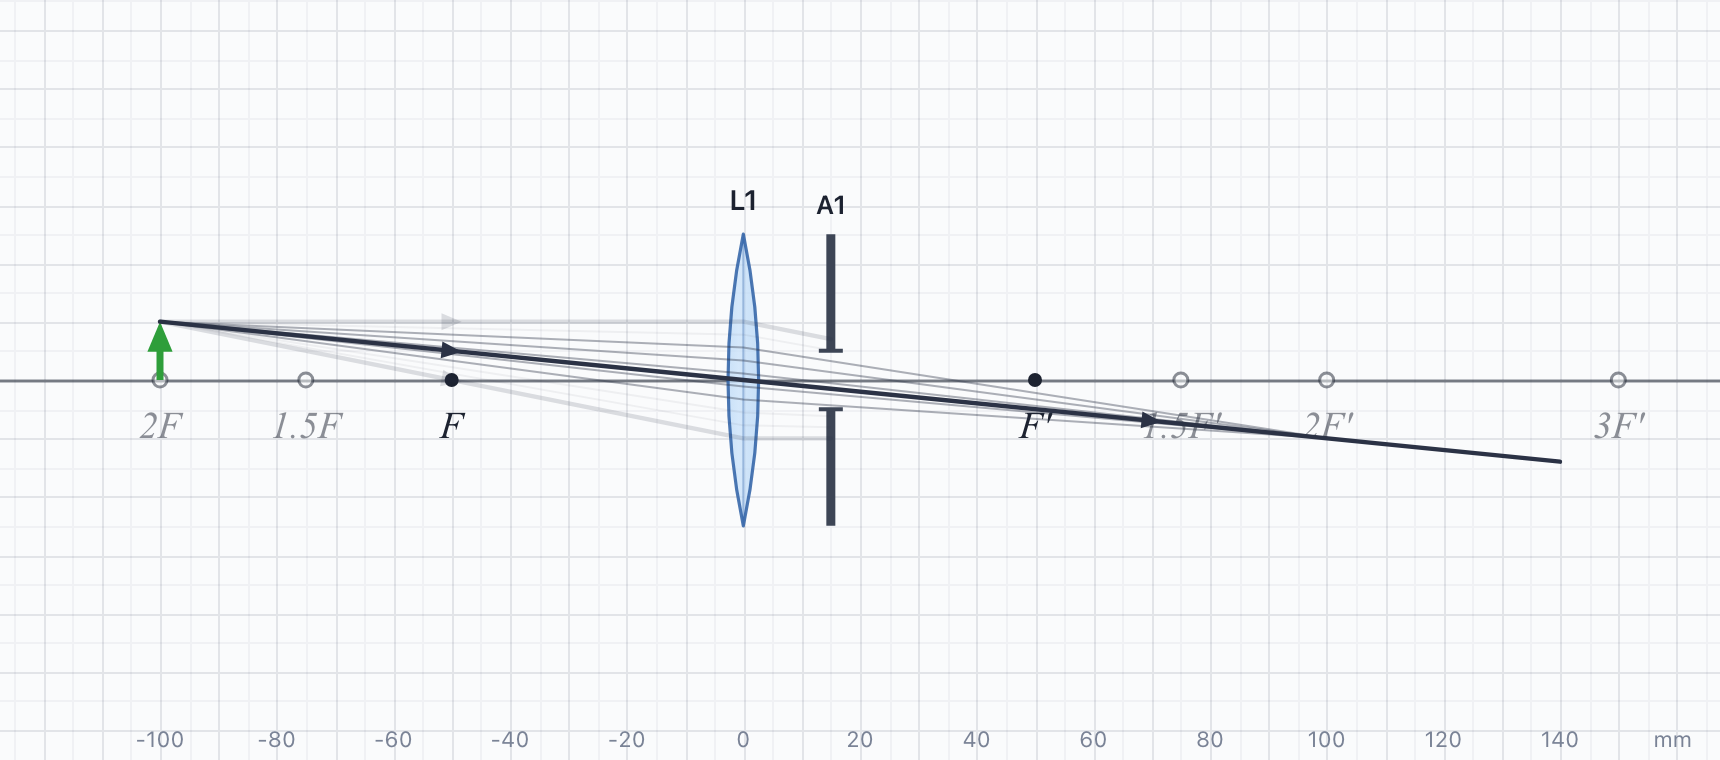
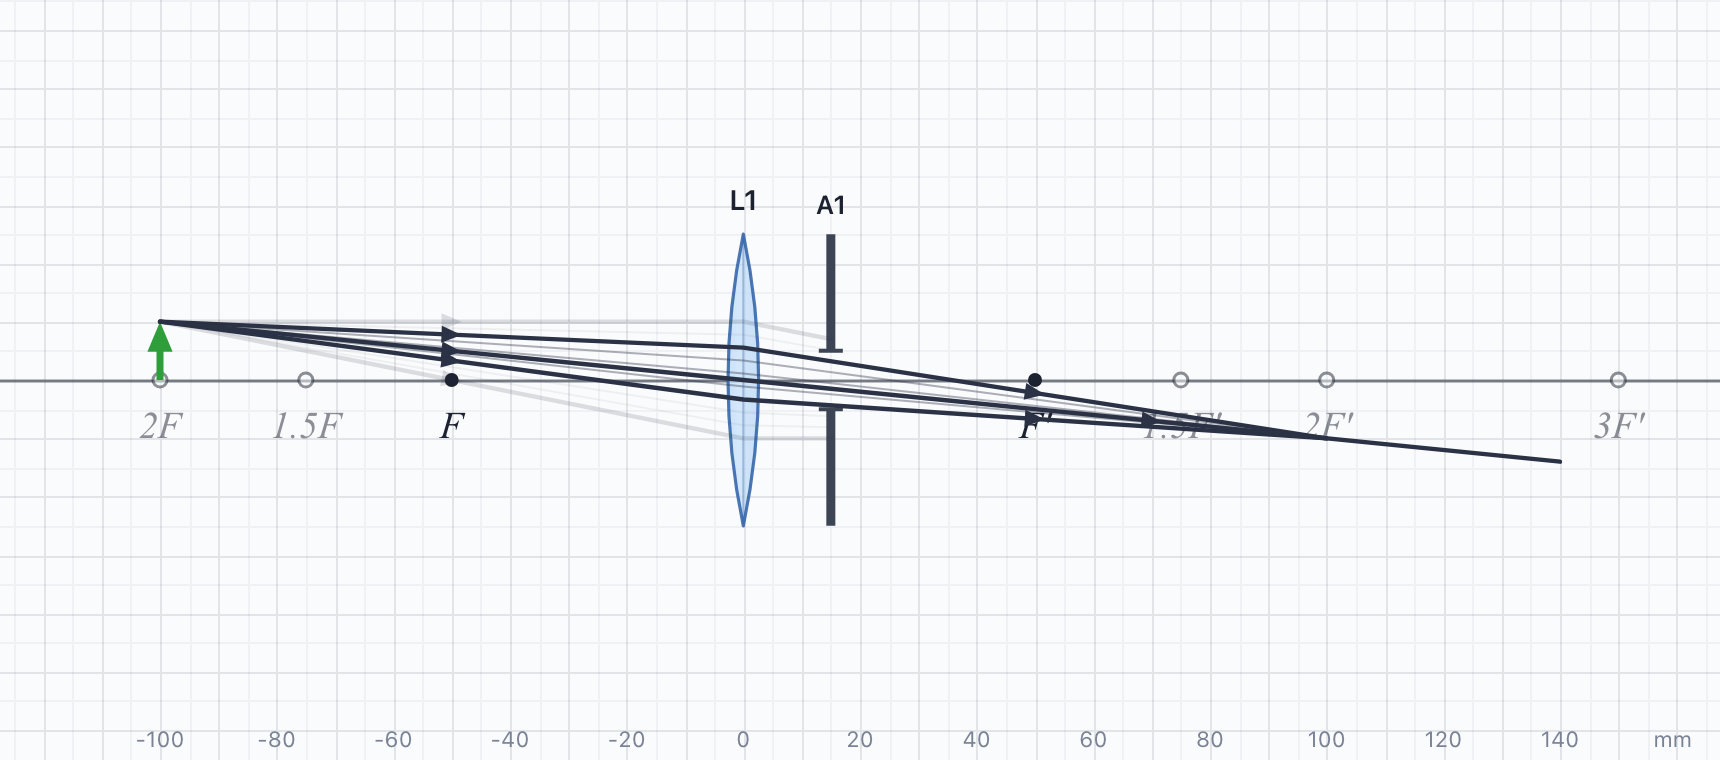
Past a fading iris, the outermost fill-in rays that pass are drawn bold (#14)
With the stopped rays faded, the edges of the light that gets through were
hard to see. The outermost passing fill-in ray on each side (where its
neighbour is faded) is now drawn like a drawn ray.

Changed region(s): [[0.4006, 0.4539, 0.7703, 0.575], [0.1233, 0.4237, 0.4006, 0.4842], [0.3081, 0.4842, 0.4006, 0.5145]]

diff --git a/js/rays.js b/js/rays.js
@@ -1271,10 +1271,14 @@
       drawn rays are right the fill is exactly right, and if they are not the fill shows it.
       The bundle is worked out as if no iris were there (closing an iris must not make the
       whole fill vanish because one drawn ray is clipped), then each fill ray is stopped by
-      irises on its own. Returns [{ pts, ray (the ray whose colour to use) }]. */
+      irises on its own. Returns [{ pts, ray (the ray whose colour to use), masked (stopped by an
+      iris that fades what it stops), edge (the outermost that gets past such an iris, on a side
+      where the drawn ray does not: drawn like a drawn ray, to show the edge of the light, #14) }]. */
   function fillRays(scene, sol, n) {
     var out = [], groups = {}, order = [];
     if (!n) return out;
+    var real = solveScene(scene);
+    function faded(r) { var b = real.rays[r.id] && real.rays[r.id].blocked, e = b && element(scene, b); return !!(e && e.mask); }
     sol = solveScene(scene, { noBlock: true });
     scene.rays.forEach(function (r) {
       var src = raySource(scene, r), s = sol.rays[r.id];
@@ -1345,7 +1349,7 @@
       // after the last shared plane: each ray's next segment gives a slope, its end a length
       var ka = m ? qa[m - 1].k : 0, kb = m ? qb[m - 1].k : 0;
       var ua = pa[ka + 1] ? slope(pa[ka], pa[ka + 1]) : undefined, ub = pb[kb + 1] ? slope(pb[kb], pb[kb + 1]) : undefined;
-      var ea = pa[pa.length - 1], eb = pb[pb.length - 1];
+      var ea = pa[pa.length - 1], eb = pb[pb.length - 1], mine = [];
       for (var i = 1; i <= n; i++) {
         var t = i / (n + 1), lerp = function (a, b) { return a + (b - a) * t; };
         var pts = [{ z: lerp(pa[0].z, pb[0].z), y: lerp(pa[0].y, pb[0].y) }];
@@ -1359,8 +1363,12 @@
           var blk = blockAt(scene, pts[q - 1], pts[q], rayColour(scene, A.r));
           if (blk) { pts = pts.slice(0, q).concat([{ z: blk.z, y: blk.y }]); break; }
         }
-        if (pts.length > 1) out.push({ pts: pts, ray: A.r, masked: !!(blk && blk.el.mask) });
+        mine.push({ pts: pts, ray: A.r, masked: !!(blk && blk.el.mask), edge: false });
       }
+      // the outermost that pass, next to one faded (or to a faded drawn ray at the edge)
+      var faint = [faded(A.r)].concat(mine.map(function (f) { return f.masked; }), [faded(B.r)]);
+      mine.forEach(function (f, k) { f.edge = !f.masked && (faint[k] || faint[k + 2]); });
+      out.push.apply(out, mine.filter(function (f) { return f.pts.length > 1; }));
     });
     return out;
   }

diff --git a/tests/phase5.test.js b/tests/phase5.test.js
@@ -378,3 +378,18 @@ test('issue #14: an iris can fade the rays it stops (off by default, saved, fill
   const src = require('fs').readFileSync(require('path').join(__dirname, '..', 'js', 'panel.js'), 'utf8');
   assert.match(src, /key: 'mask', kind: 'check'/);         // the checkbox in the iris panel
 });
+
+test('issue #14: past a fading iris, the outermost fill-in ray that gets through is drawn as an edge', () => {
+  const { s } = imaging();
+  const I = S.addIris(s, 50); I.r = 2;                    // the parallel ray passes at y = 0, the central one is stopped
+  const edges = () => R.fillRays(s, R.solveScene(s), 6).filter(f => f.edge);
+  assert.equal(edges().length, 0);                        // option off: no edges
+  I.mask = true;
+  const fill = R.fillRays(s, R.solveScene(s), 6), e = edges();
+  assert.equal(e.length, 1);                              // only on the stopped side: the drawn ray marks the other
+  assert.ok(!e[0].masked);
+  const k = fill.indexOf(fill.find(f => f.edge));
+  assert.ok((fill[k - 1] && fill[k - 1].masked) || (fill[k + 1] && fill[k + 1].masked));   // next to a faded one
+  I.r = 30;                                               // wide open: nothing stopped, no edges
+  assert.equal(edges().length, 0);
+});

diff --git a/guide/index.html b/guide/index.html
@@ -188,7 +188,8 @@
     <figcaption>Nearly closed: dimmer, same image.</figcaption></figure>
 </div>
 <p>Tick <em>Fade the rays it stops</em> in the iris's panel and the rays it blocks are drawn faint
-  all along, from their source, leaving the light that gets through.</p>
+  all along, from their source, leaving the light that gets through. The outermost fill-in rays
+  that pass are drawn bold, to mark its edges.</p>
 <figure><a href="img/iris-faded.png" target="_blank" rel="noopener" title="Open full size"><img src="img/iris-faded.png" alt="The nearly closed iris with the rays it stops faded" loading="lazy"></a>
   <figcaption>Nearly closed, the rays it stops faded.</figcaption></figure>
 <p>The <code>examples/kohler/</code> files (File → Open…) build Köhler illumination step by step.</p>

diff --git a/js/render.js b/js/render.js
@@ -587,6 +587,10 @@
     c.save(); c.globalAlpha = 0.38;
     RM.rays.fillRays(st.scene, sol, n).forEach(function (f) {
       var sp = f.pts.map(function (p) { return { x: v.X(p.z), y: v.Y(p.y) }; });
+      if (f.edge) {                                       // the edge of the light past a fading iris (#14): drawn like a drawn ray
+        c.save(); c.globalAlpha = 1; rayPath(c, sp, f.ray.color || th.ray, 2.2, W, null); c.restore();
+        return;
+      }
       c.globalAlpha = f.masked ? 0.38 * MASKED : 0.38;  // faded by the iris that stops it (#14)
       c.strokeStyle = f.ray.color || th.ray;              // the bundle's colour, never a rule's (they are not principal rays)
       c.lineWidth = 1; c.lineJoin = 'round';

diff --git a/Claude/LOG.md b/Claude/LOG.md
@@ -1791,3 +1791,13 @@ view, so a ray aimed through (or parallel to) one that was off could not be plac
 - Tests: `tests/phase5.test.js` (only stopped fill-in rays are faded, the option round-trips, the
   panel has it). By mouse in headless Chrome on the issue's scene: click a blade, tick the box; the
   three stopped rays and the stopped fill-in rays fade, the rest are unchanged; saved with the scene.
+
+## 2026-11-17: #14 follow-up, the edges of the light past a fading iris
+
+- Lecturer: with the stopped rays faded, the light that gets through was hard to read. Now the
+  outermost fill-in ray that passes, on each side where its neighbour (fill-in or drawn edge ray)
+  is faded, is drawn like a drawn ray (full colour, 2.2 px, arrows): `edge` from `fillRays`. Where
+  the drawn edge ray itself passes it already marks the edge, so nothing changes on that side.
+  Only with a fading iris; otherwise fill-in rays are as before.
+- Tests: `tests/phase5.test.js`. By mouse on the issue's scene: each bundle's passing light has
+  bold edges. Guide sentence and `iris-faded` picture updated.
